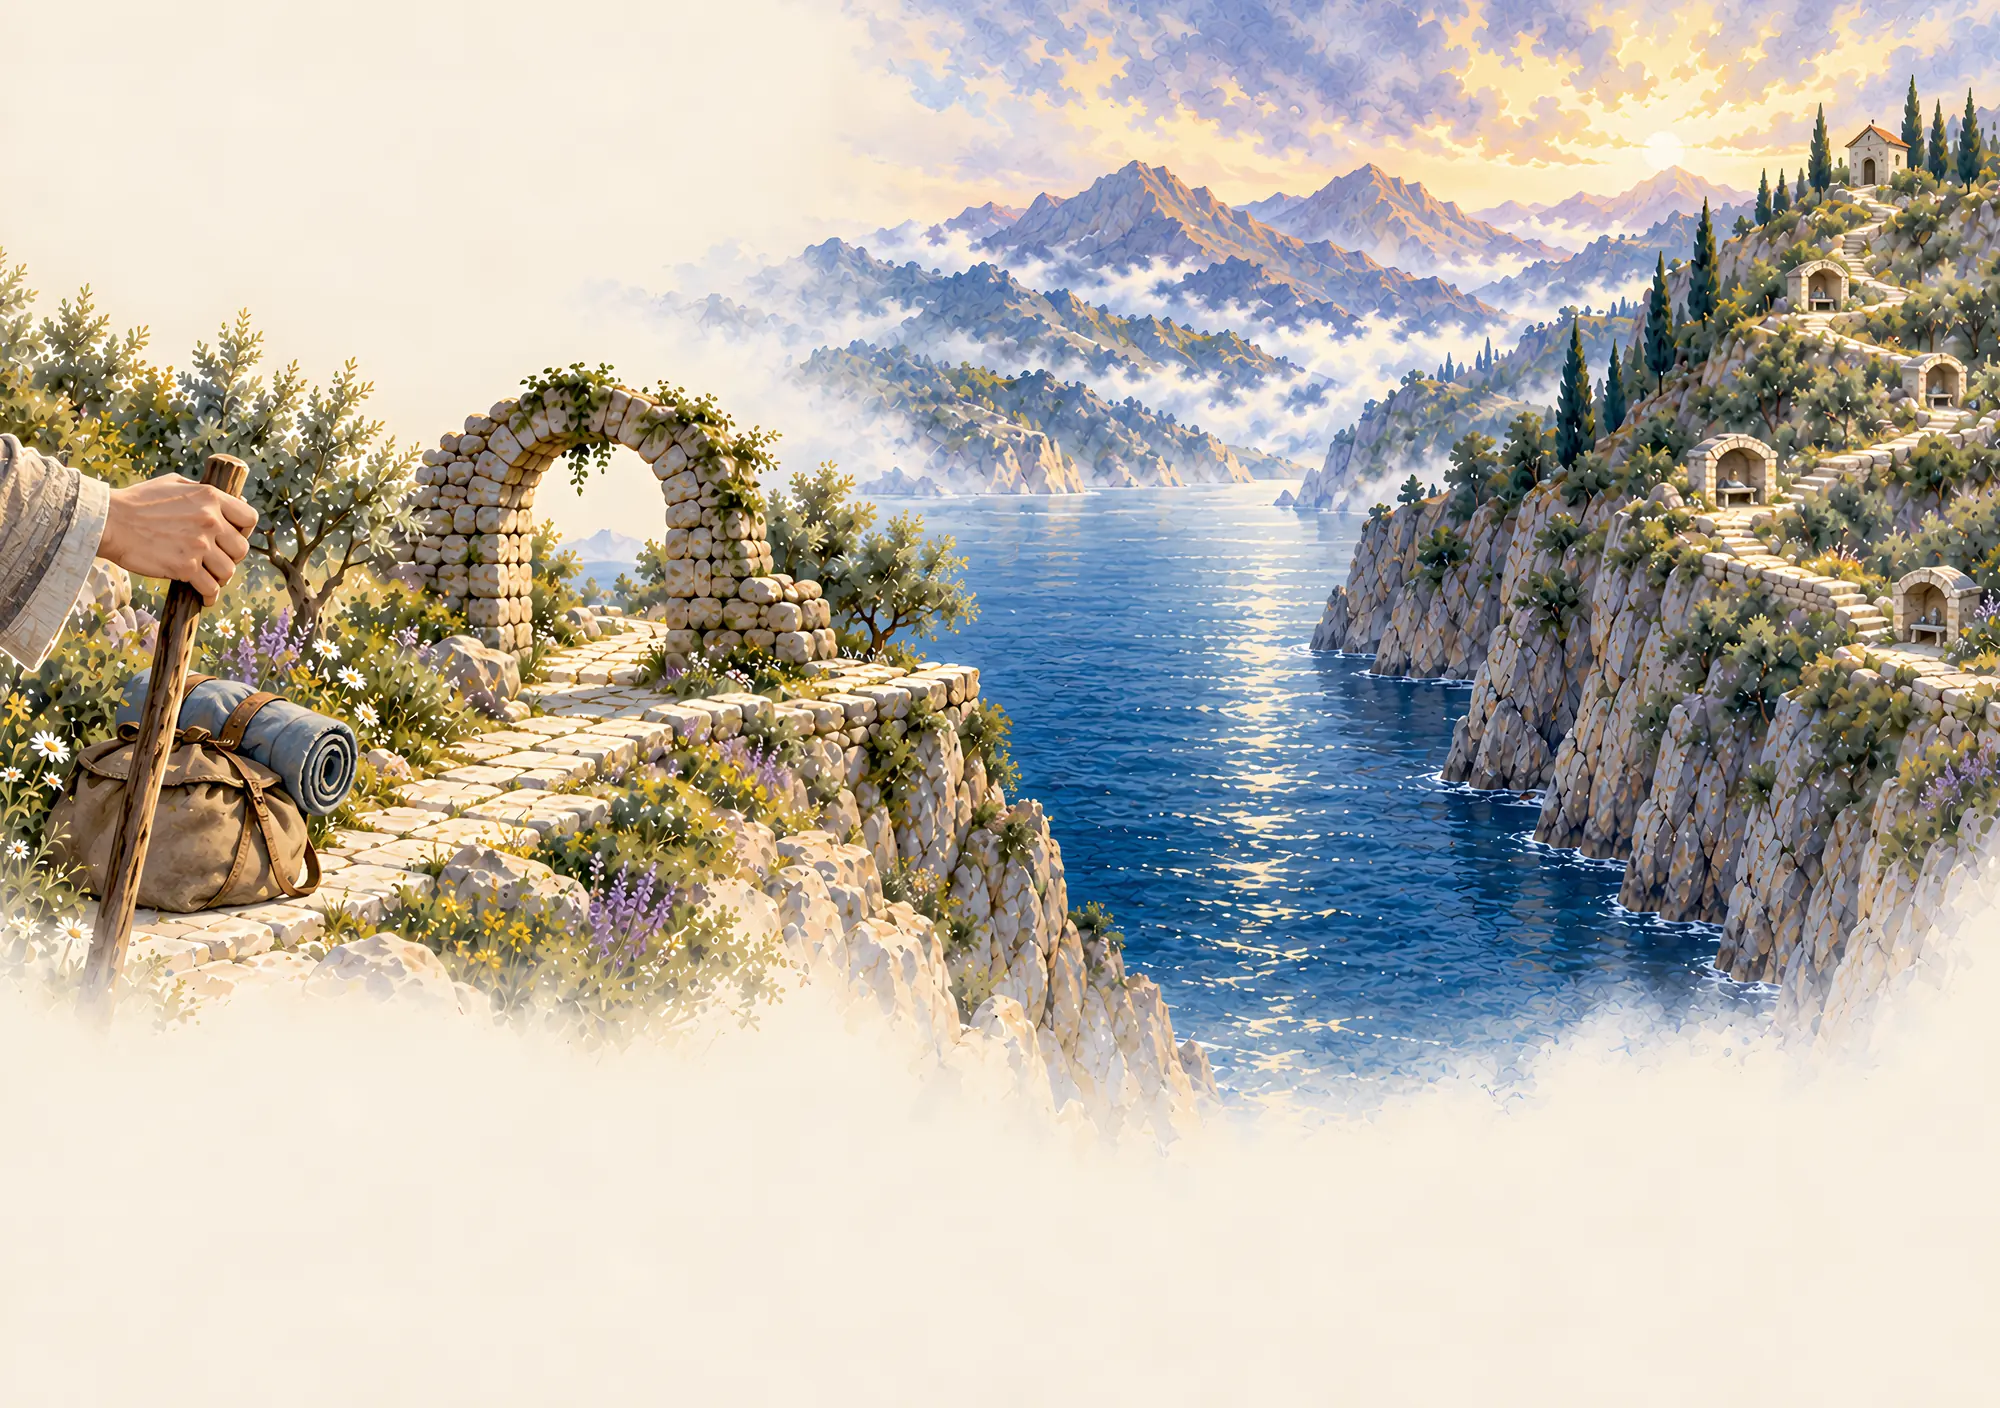
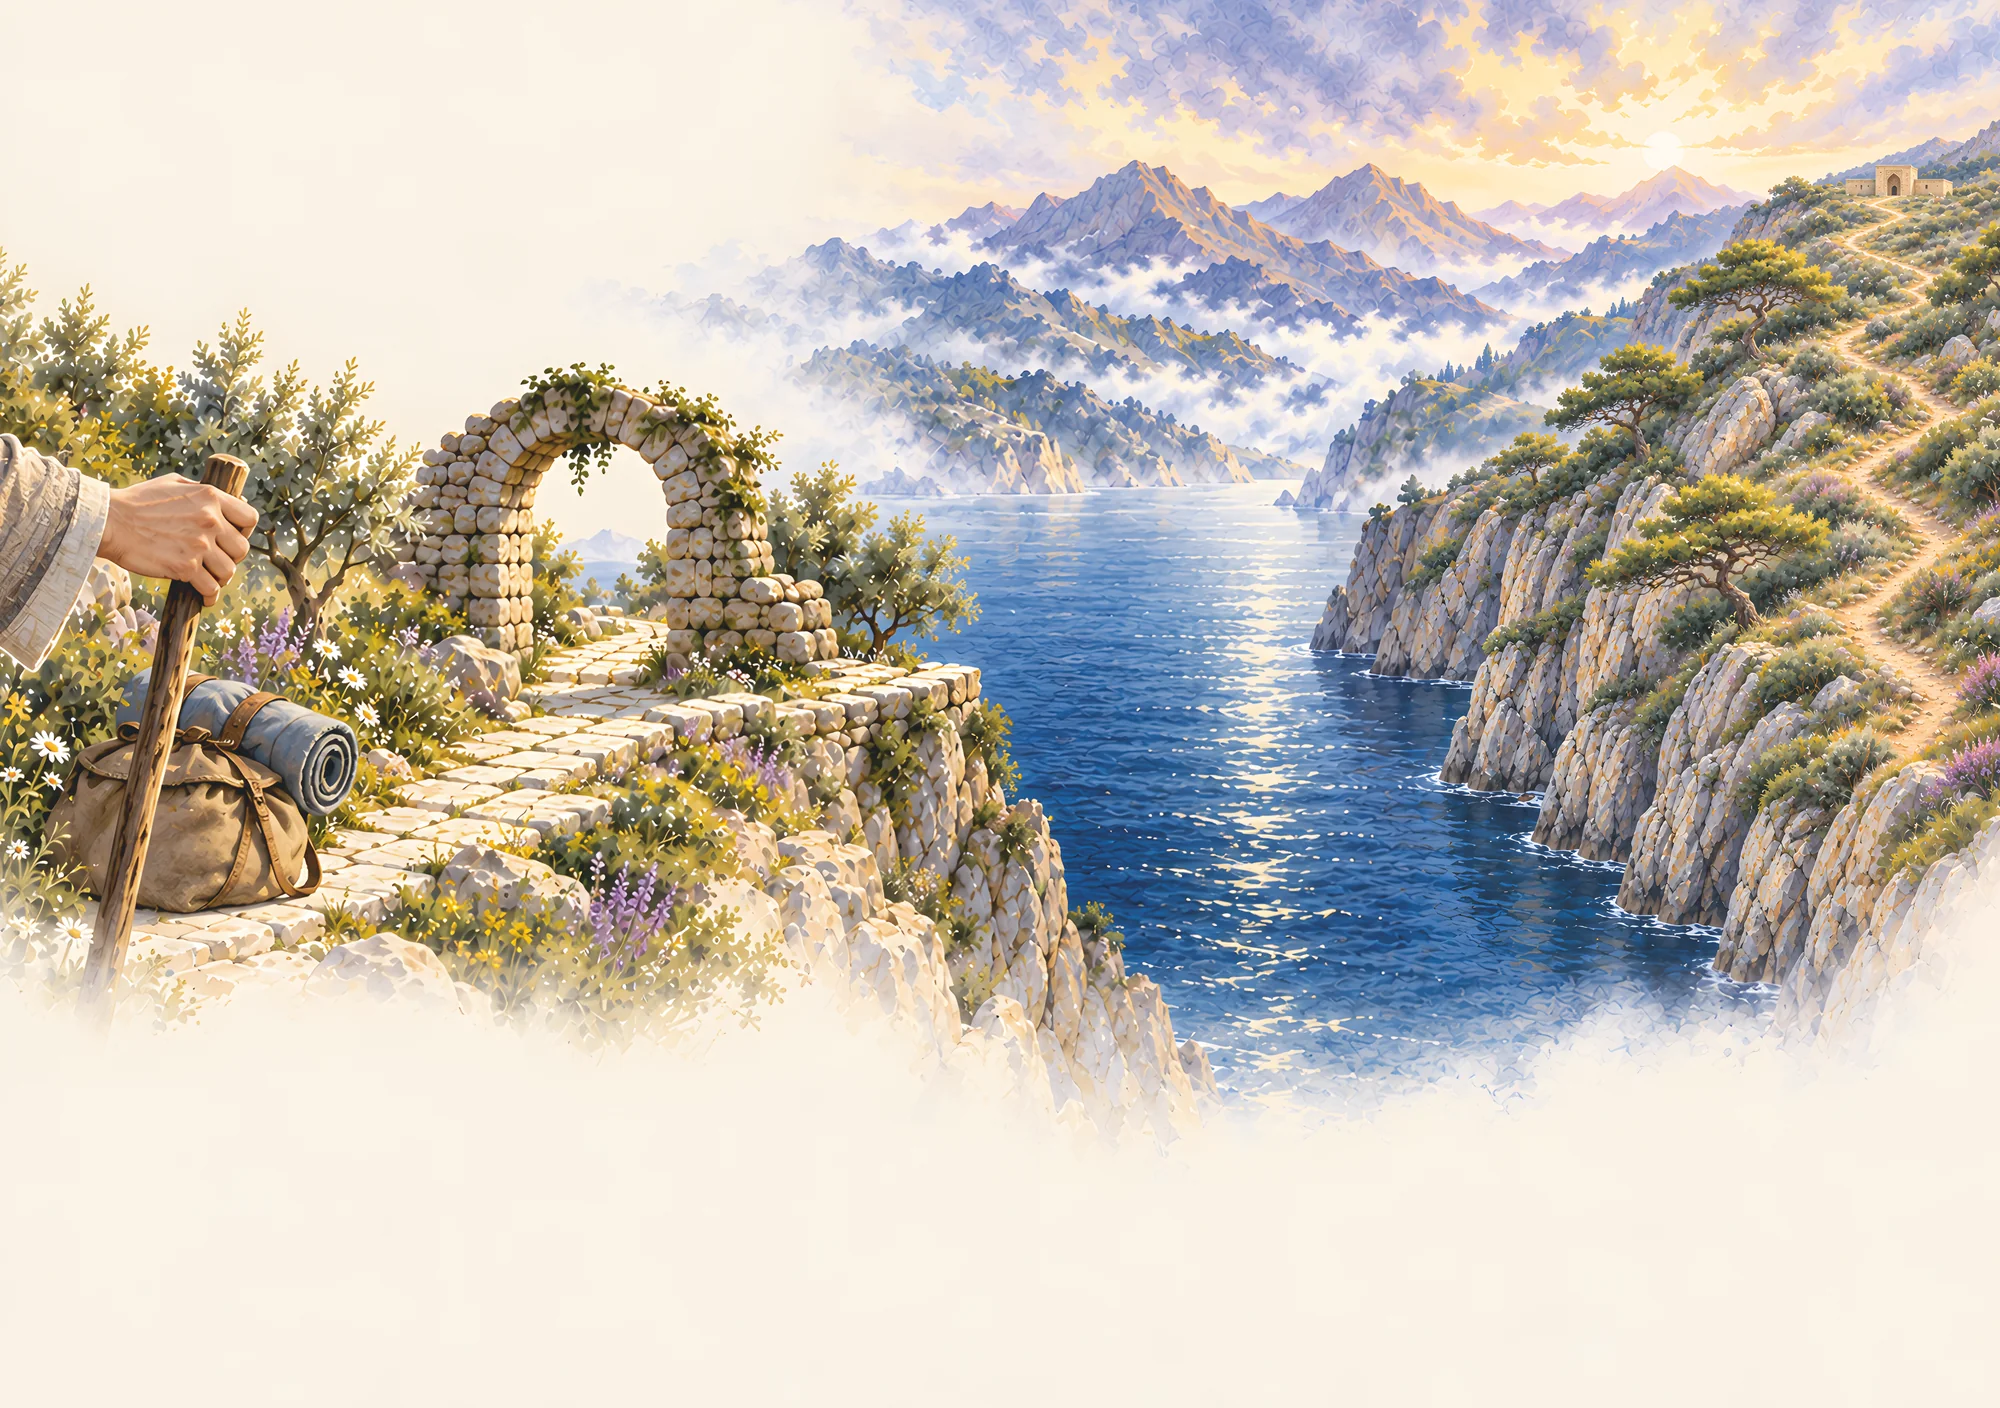
Şair Ne Demek İstedi?: 6 tablo düzeltildi (9 çan kulesi → cami, 32/38 mozaik doku, 42 Anadolu kıyısı, 46 yün hırka, 51 Osmanlı şâhidesi), kapakta kamış kalem; flipbook ve site resimleri

diff --git a/52beyit/index.html b/52beyit/index.html
@@ -15,8 +15,8 @@
 <link rel="preconnect" href="https://fonts.gstatic.com" crossorigin>
 <link href="https://fonts.googleapis.com/css2?family=Cormorant+Garamond:ital,wght@0,300;0,400;0,500;0,600;1,300;1,400;1,500&family=Spectral:ital,wght@0,300;0,400;0,500;1,300;1,400&display=swap" rel="stylesheet">
 <link rel="preload" as="image" href="tablo/01.webp">
-<link rel="stylesheet" href="style.css?v=20261125b">
-<script src="app.js?v=20261125b" defer></script>
+<link rel="stylesheet" href="style.css?v=20261126">
+<script src="app.js?v=20261126" defer></script>
 </head>
 <body>
 <a class="skip" href="#beyitler">Beyitlere geç</a>
@@ -123,7 +123,7 @@
   </section>
 
   <section class="teacher-sec" id="hocamiz" aria-labelledby="teacher-title">
-    <figure class="book-figure"><img src="kapak.webp?v=20261125" width="600" height="854" alt="Şair Ne Demek İstedi? kitabının kapağı: güller ve sarmaşıktan bir soru işareti, altında mürekkep hokkası" loading="lazy"></figure>
+    <figure class="book-figure"><img src="kapak.webp?v=20261126" width="600" height="854" alt="Şair Ne Demek İstedi? kitabının kapağı: güller ve sarmaşıktan bir soru işareti, altında mürekkep hokkası" loading="lazy"></figure>
     <div class="teacher-text">
       <p class="eyebrow">Kitabın sahibi</p>
       <h2 id="teacher-title">Hayati İnanç</h2>

diff --git a/bbba-27r442jers/geri-bildirim/index.html b/bbba-27r442jers/geri-bildirim/index.html
@@ -122,7 +122,7 @@ textarea:focus{outline:none;border-color:var(--yesil)}
 <script>
 /* ================== kitap ================== */
 const ORAN = 165 / 235;
-const SURUM = '20261125e';   // sayfa resimleri değişince artır (tarayıcı önbelleği)
+const SURUM = '20261126a';   // sayfa resimleri değişince artır (tarayıcı önbelleği)
 const P = n => `s/${String(n).padStart(3, '0')}.webp?v=${SURUM}`;
 const ACILIM = [[null, {src: 's/on.webp?v=' + SURUM, ad: 'Ön kapak', k: 'on', kapak: 1}], [{bos: 1, ad: 'İç kapak'}, {src: P(1), ad: 's. 1', k: '1'}]];
 for (let n = 2; n <= 110; n += 2) ACILIM.push([{src: P(n), ad: 's. ' + n, k: String(n)}, {src: P(n + 1), ad: 's. ' + (n + 1), k: String(n + 1)}]);

diff --git a/52beyit/app.js b/52beyit/app.js
@@ -15,7 +15,7 @@
   const tm = (s) => `${Math.floor(s / 60)}:${String(Math.floor(s % 60)).padStart(2, "0")}`;
   const byNo = (n) => POEMS.find((p) => p.number === n);
   const hasRec = (p) => !!(p && p.recording && p.recording.video_id);
-  const img = (n, small) => `tablo/${String(n).padStart(2, "0")}${small ? "-k" : ""}.webp`;
+  const img = (n, small) => `tablo/${String(n).padStart(2, "0")}${small ? "-k" : ""}.webp?v=20261126`;   // 26 Kas: 6 tablo düzeltildi
   function toast(msg) { const t = $("toast"); t.textContent = msg; t.classList.add("on"); clearTimeout(toast.t); toast.t = setTimeout(() => t.classList.remove("on"), 2400); }
 
   function meterChips(meter, small) {
